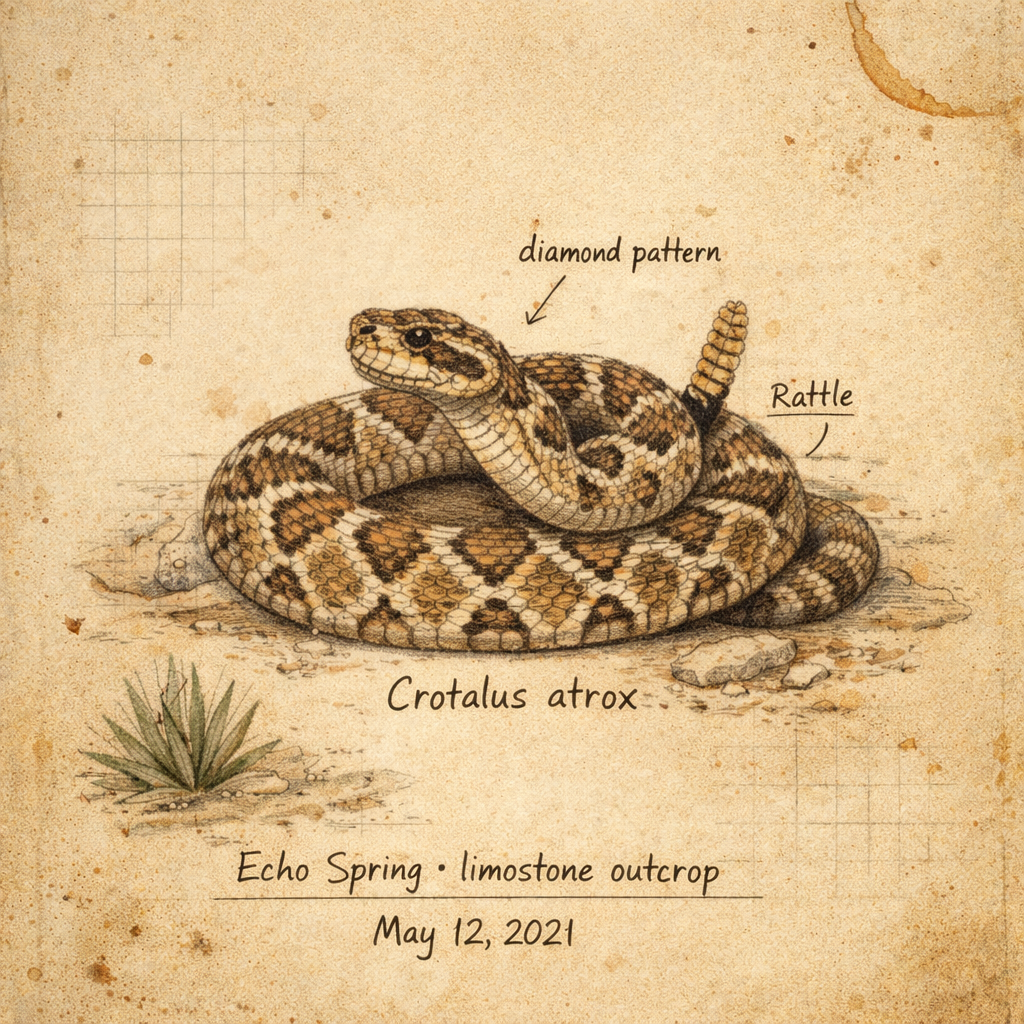
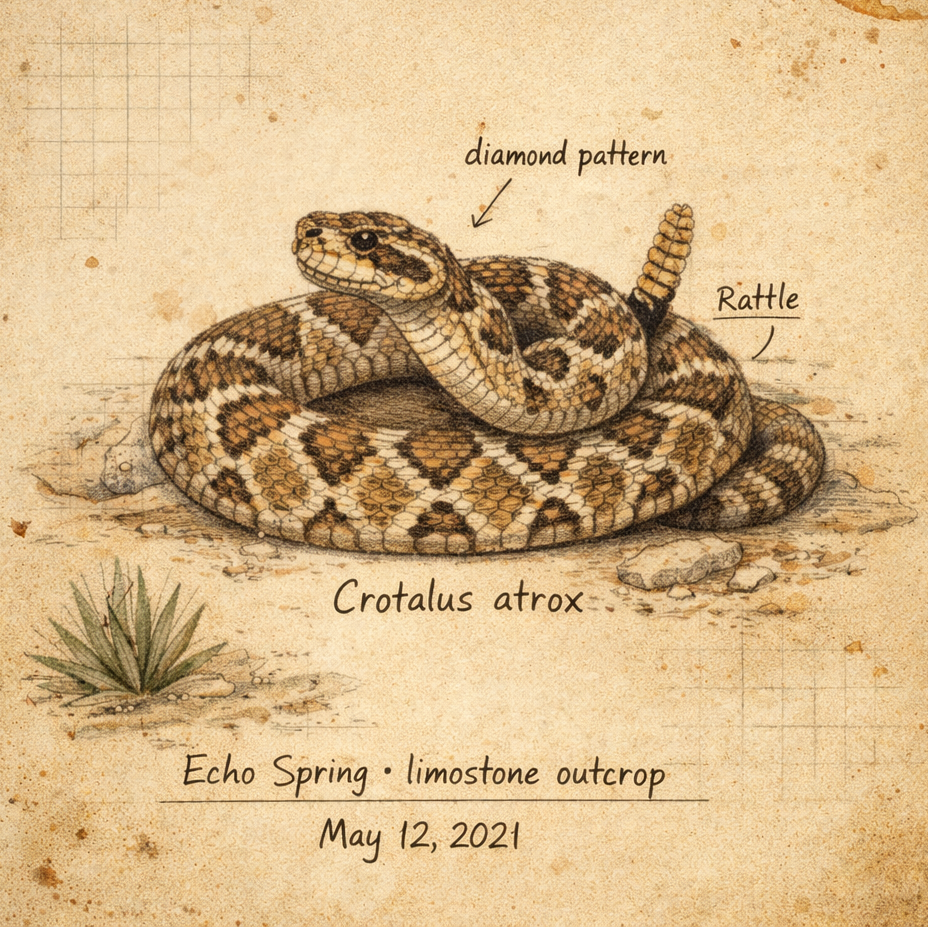
update OG

diff --git a/src/routes/__root.tsx b/src/routes/__root.tsx
@@ -4,13 +4,12 @@ import { HeadContent, Scripts, createRootRoute } from '@tanstack/react-router'
 // import { TanstackDevtools } from '@tanstack/react-devtools'
 import { ReactQueryDevtools } from '@tanstack/react-query-devtools'
 import { TanStackRouterDevtools } from '@tanstack/react-router-devtools'
-import { Analytics } from '@vercel/analytics/react';
+import { Analytics } from '@vercel/analytics/react'
 
-import { QueryClient, QueryClientProvider } from '@tanstack/react-query';
+import { QueryClient, QueryClientProvider } from '@tanstack/react-query'
 import appCss from '../styles.css?url'
 import Header from '@/components/layout/Header'
 import { Footer } from '@/components/layout/Footer'
-
 
 export const Route = createRootRoute({
   head: () => ({
@@ -25,6 +24,49 @@ export const Route = createRootRoute({
       {
         title: 'IMRS Biodiversity Explorer',
       },
+      {
+        name: 'description',
+        content:
+          'A field-driven biodiversity explorer for the Indio Mountains Research Station.',
+      },
+      {
+        property: 'og:title',
+        content: 'IMRS Biodiversity Explorer',
+      },
+      {
+        property: 'og:description',
+        content:
+          'Explore the biodiversity of Indio Mountains Research Station.',
+      },
+      {
+        property: 'og:image',
+        content: '/og.png',
+      },
+      {
+        property: 'og:type',
+        content: 'website',
+      },
+      {
+        property: 'og:url',
+        content: 'https://imrs.vercel.app/',
+      },
+      {
+        name: 'twitter:card',
+        content: 'summary_large_image',
+      },
+      {
+        name: 'twitter:title',
+        content: 'IMRS Biodiversity Explorer',
+      },
+      {
+        name: 'twitter:description',
+        content:
+          'Explore the biodiversity of Indio Mountains Research Station.',
+      },
+      {
+        name: 'twitter:image',
+        content: '/og.png',
+      },
     ],
     links: [
       {
@@ -35,8 +77,7 @@ export const Route = createRootRoute({
       { rel: 'preconnect', href: 'https://fonts.gstatic.com', crossOrigin: '' },
       {
         rel: 'stylesheet',
-        href:
-          'https://fonts.googleapis.com/css2?family=Courier+Prime:ital,wght@0,400;0,700;1,400;1,700&family=IBM+Plex+Mono:ital,wght@0,100;0,200;0,300;0,400;0,500;0,600;0,700;1,100;1,200;1,300;1,400;1,500;1,600;1,700&display=swap',
+        href: 'https://fonts.googleapis.com/css2?family=Courier+Prime:ital,wght@0,400;0,700;1,400;1,700&family=IBM+Plex+Mono:ital,wght@0,100;0,200;0,300;0,400;0,500;0,600;0,700;1,100;1,200;1,300;1,400;1,500;1,600;1,700&display=swap',
       },
     ],
   }),
@@ -45,8 +86,7 @@ export const Route = createRootRoute({
 })
 
 function RootDocument({ children }: { children: React.ReactNode }) {
-  
-  const queryClient = new QueryClient();
+  const queryClient = new QueryClient()
   // const queryClient = React.useMemo(() => new QueryClient(), []);
 
   return (

diff --git a/src/components/ImageCarousel.tsx b/src/components/ImageCarousel.tsx
@@ -68,6 +68,7 @@ export const ImageCarousel = () => {
                     src={image.src}
                     alt={image.alt}
                     className="w-full h-40 md:h-48 object-cover"
+                    loading='lazy'
                   />
                 </CardContent>
               </Card>
